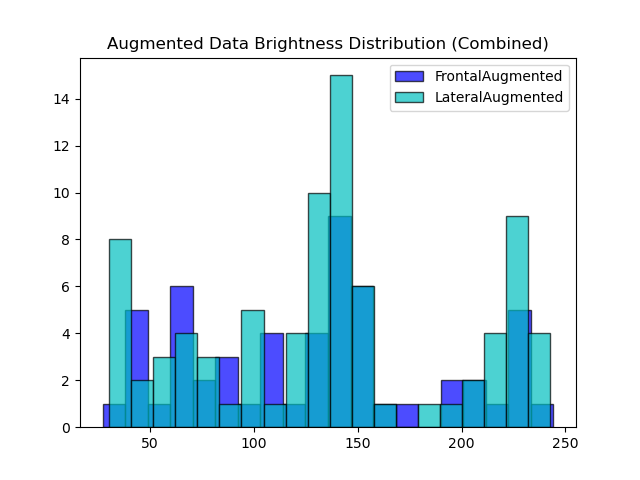
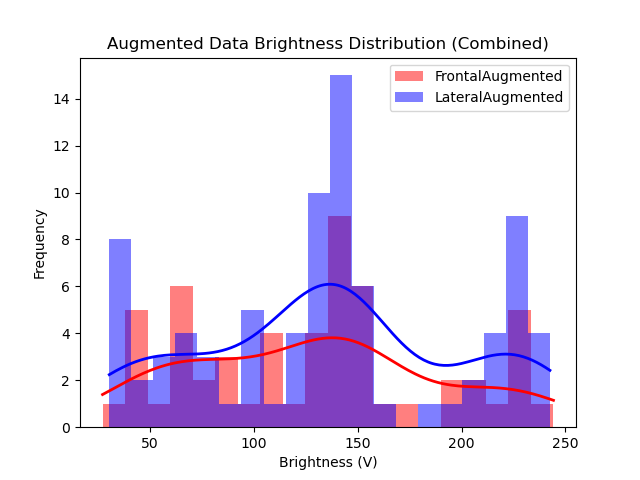
solo para mejorar un poco los plots

diff --git a/DataExploration.py b/DataExploration.py
@@ -86,32 +86,51 @@ def computeProperties (DataDir,Views):
 
 
 
-#### VISUALLY EXPLORE PROPERTIES DISTRIBUTION FOR EACH VIEW
+#### VISUALLY EXPLORE PROPERTIES DISTRIBUTION FOR EACH VIEWz
 # We now save plots to disk instead of showing them interactively.
+from scipy.stats import gaussian_kde
+import numpy as np
+
 def Visualplots(dataset_name, Views, plateAngle, imageColor, 
-          imageIlluminance, imageSaturation, SHOW_SEPARATE=False, save_dir=PLOTS_DIR):
+                imageIlluminance, imageSaturation, SHOW_SEPARATE=False, save_dir=PLOTS_DIR):
 
     co=['b','c']  # colors for views
-    
+    alpha_val = 0.7  # transparency
+
+    def plot_hist_with_line(data_dict, title, filename, xlabel):
+        plt.figure()
+        for k, view in enumerate(Views):
+            # Plot histogram
+            counts, bins, _ = plt.hist(data_dict[view], bins=20, color=co[k], alpha=alpha_val, label=view)
+            
+            # KDE / smoothed distribution line scaled to histogram counts
+            if len(data_dict[view]) > 1:
+                kde = gaussian_kde(data_dict[view])
+                x_vals = np.linspace(min(data_dict[view]), max(data_dict[view]), 200)
+                # Scale KDE to match histogram
+                kde_scaled = kde(x_vals) * len(data_dict[view]) * (bins[1] - bins[0])
+                plt.plot(x_vals, kde_scaled, color=co[k], linewidth=2)
+        plt.title(f"{dataset_name} {title} (Combined)")
+        plt.xlabel(xlabel)
+        plt.ylabel("Frequency")
+        plt.legend()
+        plt.savefig(os.path.join(save_dir, filename))
+        plt.close()
+
+
     # -------------------------------------------------------------
-    ## Color Distribution
+    # Color
     if SHOW_SEPARATE:
         for k, view in enumerate(Views):
             plt.figure()
-            plt.hist(imageColor[view], bins=20, edgecolor='k', color=co[k], alpha=0.7)
+            plt.hist(imageColor[view], bins=20, color=co[k], alpha=alpha_val)
             plt.title(f'{dataset_name} Color Distribution - {view}')
             plt.savefig(os.path.join(save_dir, f"{dataset_name}_Color_{view}.png"))
             plt.close()
     else:
-        plt.figure()
-        for k, view in enumerate(Views):
-            plt.hist(imageColor[view], bins=20, edgecolor='k', color=co[k], alpha=0.7)
-        plt.title(f'{dataset_name} Color Distribution (Combined)')
-        plt.legend(Views)
-        plt.savefig(os.path.join(save_dir, f"{dataset_name}_Color_Combined.png"))
-        plt.close()
+        plot_hist_with_line(imageColor, "Color Distribution", f"{dataset_name}_Color_Combined.png", "Hue")
 
-    # Boxplot
+    # Boxplot (unchanged)
     plt.figure()
     x=[imageColor[v] for v in Views]
     bpC = plt.boxplot(x, patch_artist=True, tick_labels=Views)
@@ -122,25 +141,18 @@ def Visualplots(dataset_name, Views, plateAngle, imageColor,
     plt.title(f'{dataset_name} Color Distribution')
     plt.savefig(os.path.join(save_dir, f"{dataset_name}_Color_Boxplot.png"))
     plt.close()
-    
 
     # -------------------------------------------------------------
-    ## Saturation
+    # Saturation
     if SHOW_SEPARATE:
         for k, view in enumerate(Views):
             plt.figure()
-            plt.hist(imageSaturation[view], bins=20, edgecolor='k', color=co[k], alpha=0.7)
+            plt.hist(imageSaturation[view], bins=20, color=co[k], alpha=alpha_val)
             plt.title(f'Saturation Distribution - {view}')
             plt.savefig(os.path.join(save_dir, f"{dataset_name}_Saturation_{view}.png"))
             plt.close()
     else:
-        plt.figure()
-        for k, view in enumerate(Views):
-            plt.hist(imageSaturation[view], bins=20, edgecolor='k', color=co[k], alpha=0.7)
-        plt.title(f'{dataset_name} Saturation Distribution (Combined)')
-        plt.legend(Views)
-        plt.savefig(os.path.join(save_dir, f"{dataset_name}_Saturation_Combined.png"))
-        plt.close()
+        plot_hist_with_line(imageSaturation, "Saturation Distribution", f"{dataset_name}_Saturation_Combined.png", "Saturation")
 
     # Boxplot
     plt.figure()
@@ -154,24 +166,17 @@ def Visualplots(dataset_name, Views, plateAngle, imageColor,
     plt.savefig(os.path.join(save_dir, f"{dataset_name}_Saturation_Boxplot.png"))
     plt.close()
 
-
     # -------------------------------------------------------------
-    ## Brightness
+    # Brightness
     if SHOW_SEPARATE:
         for k, view in enumerate(Views):
             plt.figure()
-            plt.hist(imageIlluminance[view], bins=20, edgecolor='k', color=co[k], alpha=0.7)
+            plt.hist(imageIlluminance[view], bins=20, color=co[k], alpha=alpha_val)
             plt.title(f'{dataset_name} Brightness Distribution - {view}')
             plt.savefig(os.path.join(save_dir, f"{dataset_name}_Brightness_{view}.png"))
             plt.close()
     else:
-        plt.figure()
-        for k, view in enumerate(Views):
-            plt.hist(imageIlluminance[view], bins=20, edgecolor='k', color=co[k], alpha=0.7)
-        plt.title(f'{dataset_name} Brightness Distribution (Combined)')
-        plt.legend(Views)
-        plt.savefig(os.path.join(save_dir, f"{dataset_name}_Brightness_Combined.png"))
-        plt.close()
+        plot_hist_with_line(imageIlluminance, "Brightness Distribution", f"{dataset_name}_Brightness_Combined.png", "Brightness (V)")
 
     # Boxplot
     plt.figure()
@@ -186,22 +191,16 @@ def Visualplots(dataset_name, Views, plateAngle, imageColor,
     plt.close()
 
     # -------------------------------------------------------------
-    ## Camera ViewPoint
+    # Plate Angle / Viewpoint
     if SHOW_SEPARATE:
         for k, view in enumerate(Views):
             plt.figure()
-            plt.hist(plateAngle[view], bins=20, edgecolor='k', color=co[k], alpha=0.7)
+            plt.hist(plateAngle[view], bins=20, color=co[k], alpha=alpha_val)
             plt.title(f'{dataset_name} View Point Distribution - {view}')
             plt.savefig(os.path.join(save_dir, f"{dataset_name}_ViewPoint_{view}.png"))
             plt.close()
     else:
-        plt.figure()
-        for k, view in enumerate(Views):
-            plt.hist(plateAngle[view], bins=20, edgecolor='k', color=co[k], alpha=0.7)
-        plt.title(f'{dataset_name} View Point Distribution (Combined)')
-        plt.legend(Views)
-        plt.savefig(os.path.join(save_dir, f"{dataset_name}_ViewPoint_Combined.png"))
-        plt.close()
+        plot_hist_with_line(plateAngle, "View Point Distribution", f"{dataset_name}_ViewPoint_Combined.png", "Angle (degrees)")
 
     # Boxplot
     plt.figure()
@@ -313,7 +312,7 @@ def compare_plate_angles(datasets, views, dataset_names, save_dir=PLOTS_DIR):
             mean_angle = np.mean(angles)
             std_angle = np.std(angles)
             print(f"{name}: mean={mean_angle:.2f}, std={std_angle:.2f}, n={len(angles)}")
-            plt.hist(angles, bins=20, alpha=0.5, edgecolor='k', label=name)
+            plt.hist(angles, bins=20, alpha=0.5, label=name)
         
         plt.title(f"Plate Angle Distribution - {view}")
         plt.xlabel("Angle (degrees)")
